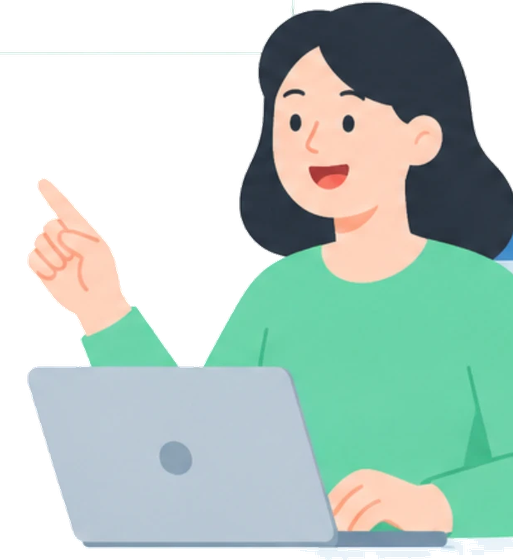
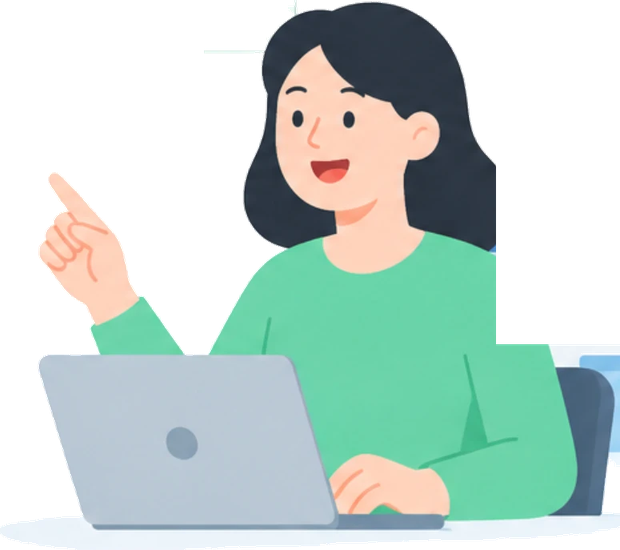
히어로 인물 재추출 — 오른쪽 어깨·의자·노트북 받침 타원 포함, 구름·학교 잔재 제거

diff --git a/index.html b/index.html
@@ -120,7 +120,7 @@ footer { text-align: center; color: var(--muted); font-size: 12px; padding: 20px
 <body>
 <header>
   <div class="hero-deco hero-r" aria-hidden="true"><div>
-    <img src="hero_person.png" width="171" height="187" alt="">
+    <img src="hero_person.png" width="169" height="150" alt="">
   </div></div>
   <h1><a href="#/">공교육 에듀테크 활용 현황</a></h1>
   <div class="sub">전국 초·중·고등학교의 에듀테크 (학습지원 소프트웨어) 도입 기록을 조달·공개자료 기반으로 제공합니다</div>